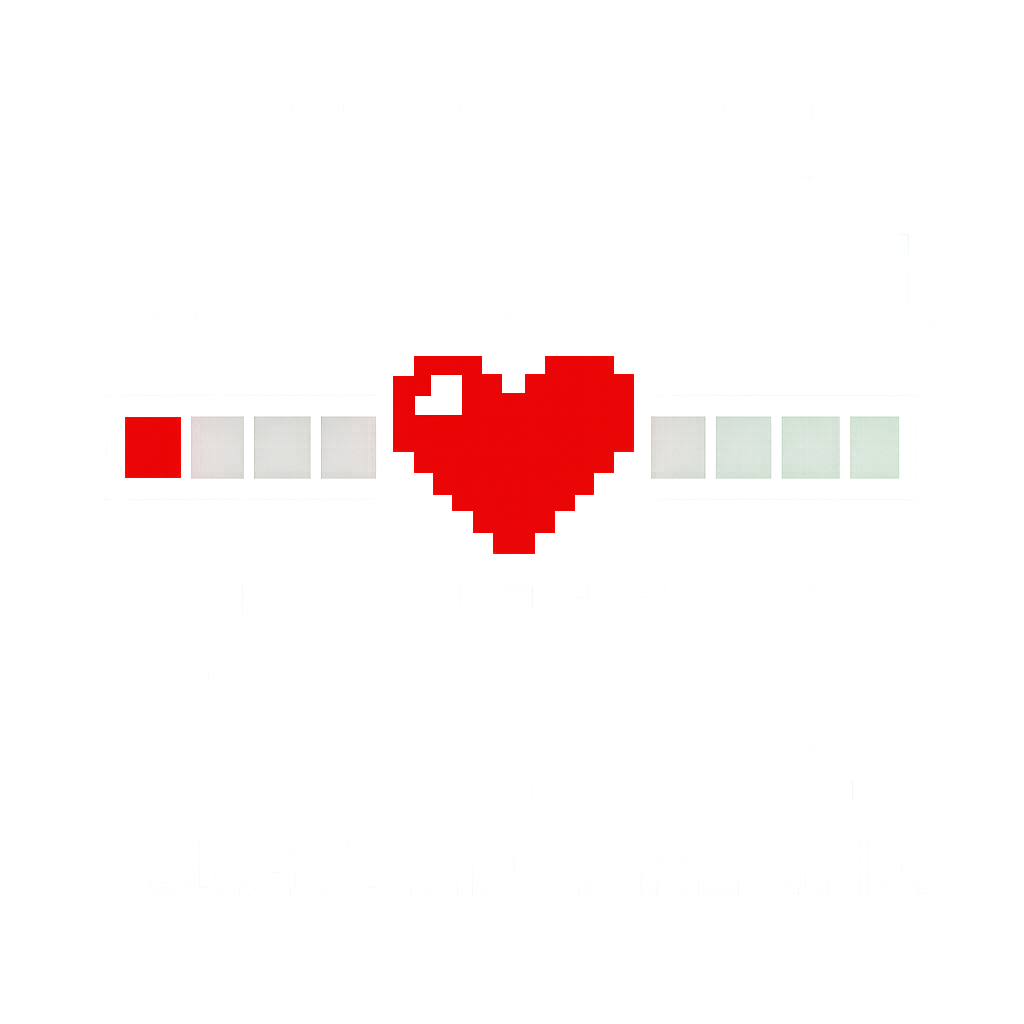
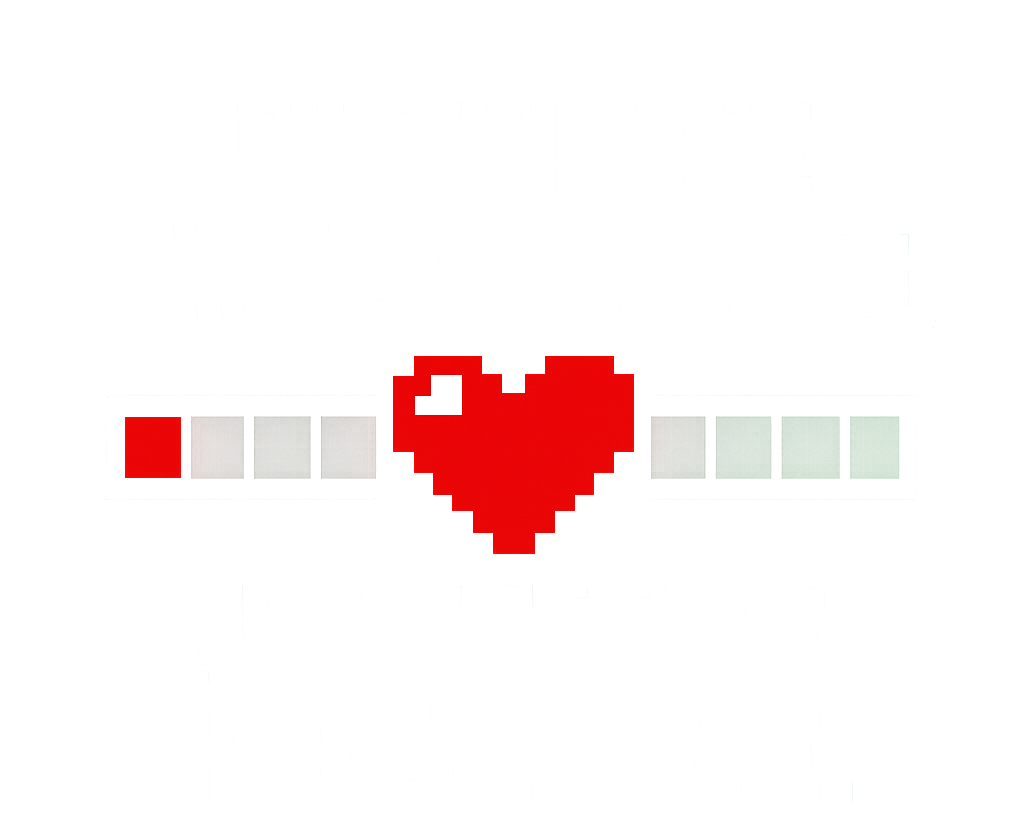
width and height fix

Changed region(s): [[0.125, 0.3337, 0.875, 0.6978]]

diff --git a/index.html b/index.html
@@ -34,7 +34,7 @@
         <h3>You finally realised you wanted to recover and get out of that gutter</h3>
         <p>and you finally realized that there are</p>
         <h2 id="h2">"No more extra lives, just one real one"</h2>
-        <img src="slogan3.png" width="300px" height="300px">
+        <img src="slogan3.png" width="300px" height="260px">
     </section>
     <section class="seventh">
         <h2>Phase 7 (joining the community)</h2>
